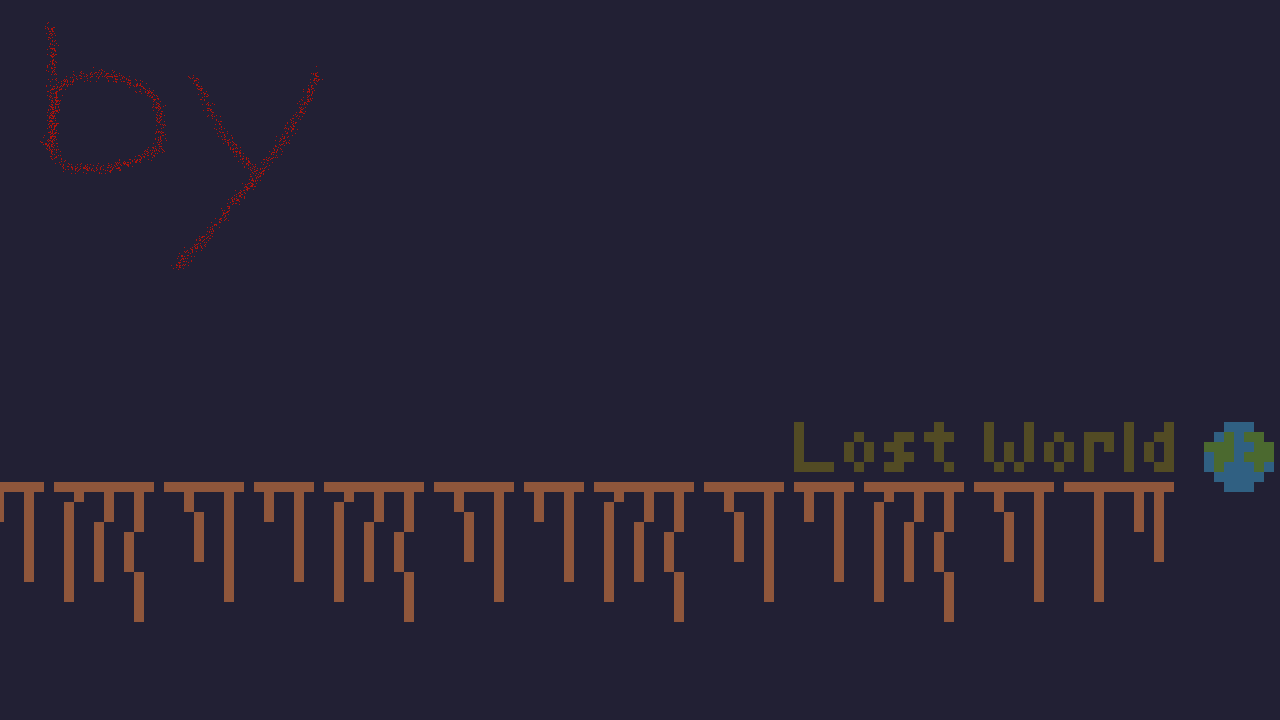
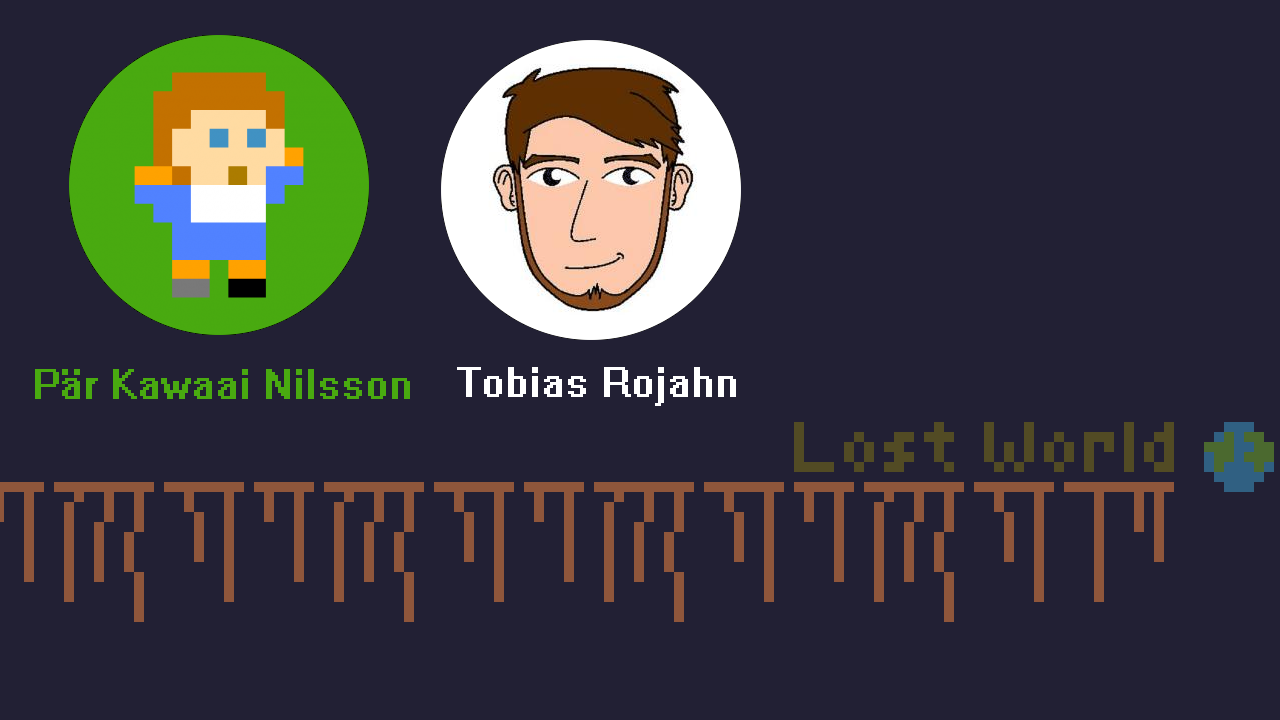
add credits

Changed region(s): [[0.0, 0.0306, 0.5938, 0.55], [0.0312, 0.0306, 0.3125, 0.4889]]

diff --git a/README.md b/README.md
@@ -61,7 +61,6 @@ Electricity might have a simplified logistic system to be distributed across bui
 
 ## Work to do
 
-- resource collection feedback
 - right click to cancel
 - r for rotate building
 - milestone unlocked feedback
@@ -69,7 +68,7 @@ Electricity might have a simplified logistic system to be distributed across bui
 
 Bug fixes:
 
-- duplicate entries when switching between build menues
+- duplicate entries when switching between build menus
 - update building inventory
 
 Maybe:
